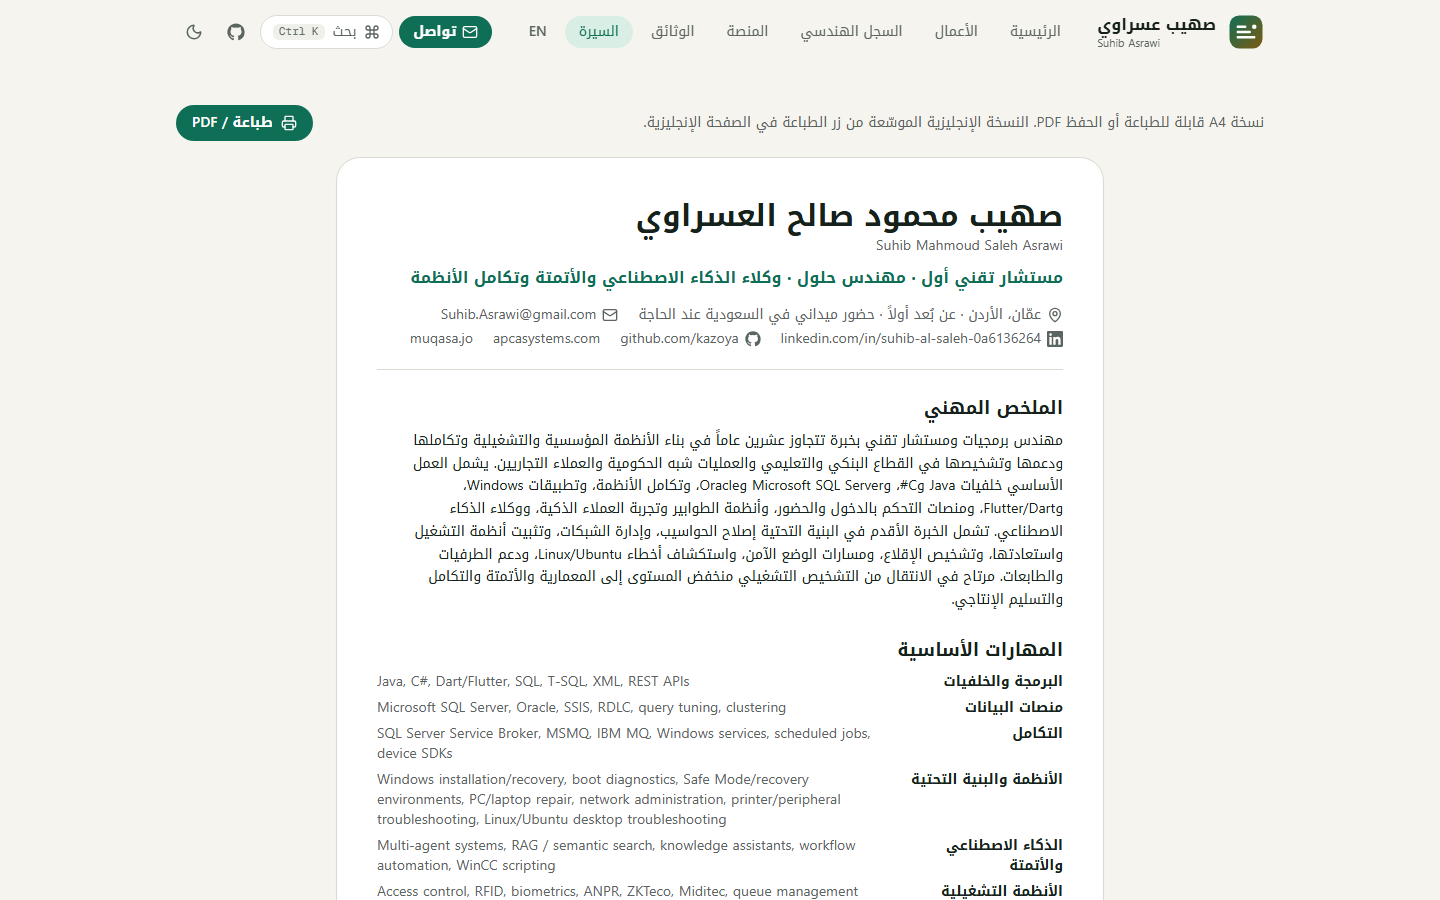
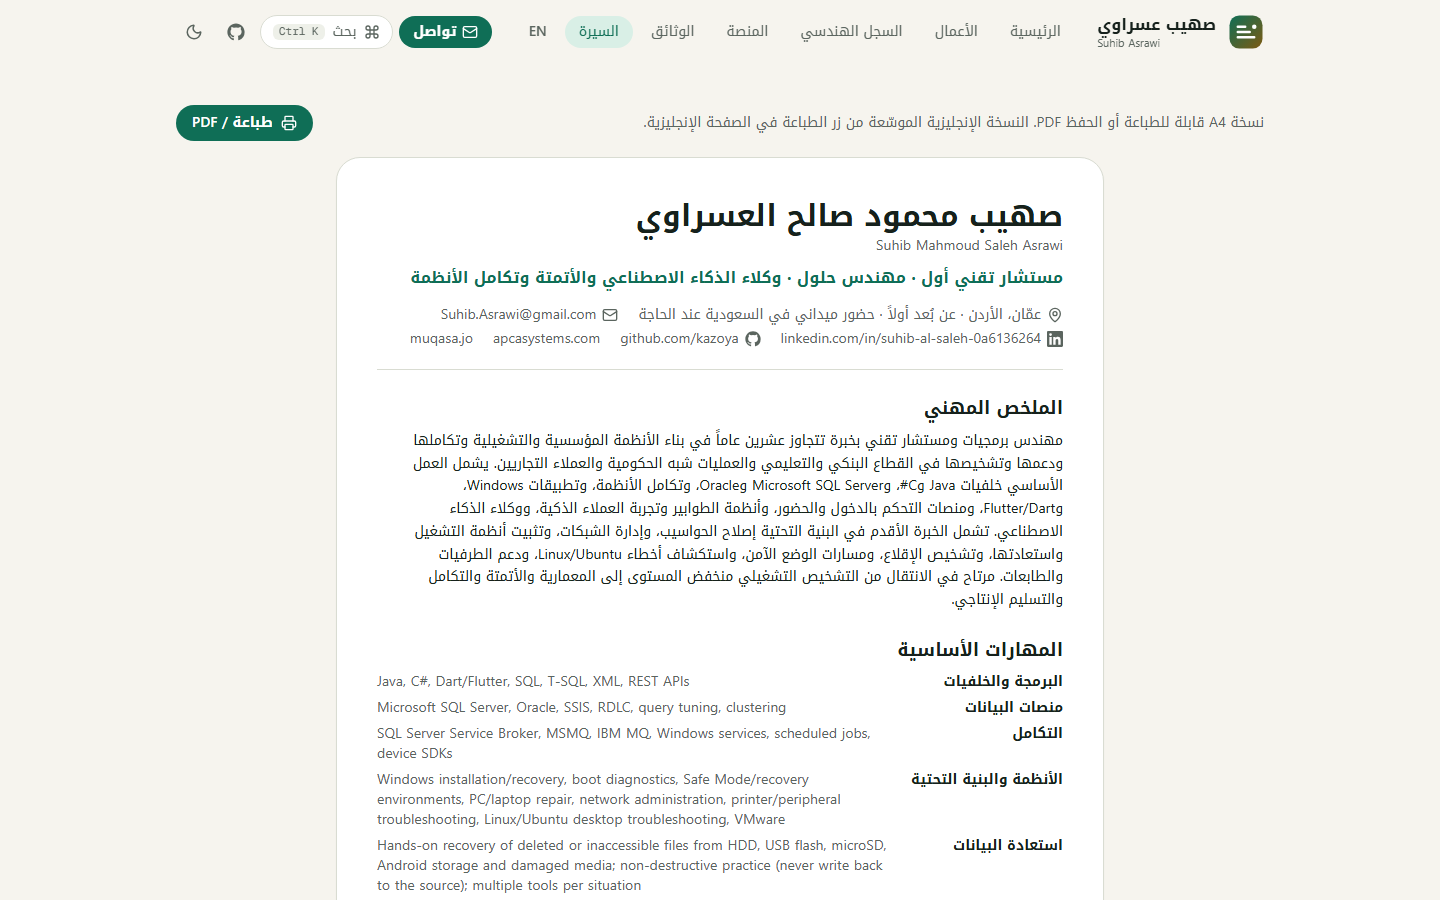
Journal: application-security section with PortSwigger evidence, recovery and security skills, side gallery
- PortSwigger Web Security Academy dashboard (owner screenshot, 2026-09-16):
  273/273 labs, Expert level, BSCP exam-preparation complete; stated as
  exam-ready, not certified
- security practice: assessments with risk reporting (CV), Burp Suite Pro,
  APK reverse-engineering reports, hardening in own projects
- technology generations: Security track; CV skills: data recovery and
  application security; capabilities: security, OS maintenance/recovery, APK RE
- "On the side": three AI-generated illustrations from June 2026, labelled
  as decoration, never evidence

Changed region(s): [[0.25, 0.9022, 0.625, 0.9956], [0.6562, 0.9333, 0.75, 1.0]]

diff --git a/data/journey.ts b/data/journey.ts
@@ -383,6 +383,9 @@ export const tracks: Track[] = [
   { id: "integration", category: "integration", title: { ar: "التكامل", en: "Integration" }, items: [
     { label: "Windows services", era: "enterprise", current: true }, { label: "Service Broker / MSMQ / IBM MQ", era: "enterprise", current: true }, { label: "Device SDKs (Miditec, ZKTeco)", era: "enterprise", current: true }, { label: "RFID / biometrics / ANPR", era: "enterprise", current: true }, { label: "Multi-agent hub", era: "ai", current: true },
   ] },
+  { id: "security", category: "systems", title: { ar: "الأمن", en: "Security" }, items: [
+    { label: "Recovery & Safe Mode", era: "early" }, { label: "Network hardening", era: "infra" }, { label: "App-security assessments", era: "enterprise", current: true }, { label: "Burp Suite Pro · PortSwigger 273/273", era: "ai", current: true }, { label: "APK reverse-engineering reports", era: "ai", current: true },
+  ] },
   { id: "automation", category: "automation", title: { ar: "الأتمتة", en: "Automation" }, items: [
     { label: "Scripts", era: "infra" }, { label: "Scheduled jobs / SQL Agent", era: "enterprise", current: true }, { label: "WinCC scripting", era: "enterprise", current: true }, { label: "Workflow automation", era: "ai", current: true }, { label: "WhatsApp operations flows", era: "ai", current: true },
   ] },
@@ -397,7 +400,7 @@ export const recruiterView: { q: L; a: L }[] = [
   { q: { ar: "من هو صهيب؟", en: "Who is Suhib?" }, a: { ar: "مهندس برمجيات ومستشار تقني من عمّان، أكثر من 20 عاماً في بناء الأنظمة المؤسسية والتشغيلية وتكاملها ودعمها وتشخيصها.", en: "A software engineer and technology consultant from Amman with 20+ years building, integrating, supporting and troubleshooting enterprise and operational systems." } },
   { q: { ar: "ماذا يعمل الآن؟", en: "What does he do now?" }, a: { ar: "مستشار تقني أول ومهندس حلول في APCA Systems (منذ 2018)، ومهندس برمجيات لأنظمة الدخول وقواعد البيانات والتكامل في Signals Control (منذ 2018): وكلاء ذكاء اصطناعي، أتمتة، وتكامل أنظمة.", en: "Senior Technology Consultant & Solutions Architect at APCA Systems (since 2018) and Software Engineer for access control, databases and integration at Signals Control (since 2018): AI agents, automation and systems integration." } },
   { q: { ar: "ما مستوى أقدميته؟", en: "How senior is he?" }, a: { ar: "أول/معماري. يقود التصميم والتسليم، يشخّص الإنتاج، ويوجّه المهندسين والوكلاء؛ يعمل مباشرة مع التنفيذيين.", en: "Senior / architect level. Leads design and delivery, diagnoses production, mentors engineers and directs AI agents; works directly with executives." } },
-  { q: { ar: "على أي أنظمة عمل؟", en: "What systems has he worked on?" }, a: { ar: "أنظمة بنكية (استيراد إجازات على منصة MTZ)، تحكم بالدخول والحضور (Miditec، ZKTeco، RFID، بصمة، ANPR)، إدارة طوابير، مساعدات معرفة عربية، منصات عقارية، ومواقع ومنصات عربية ثنائية اللغة.", en: "Banking (leave import on an MTZ platform), access control and attendance (Miditec, ZKTeco, RFID, fingerprint, ANPR), queue management, Arabic knowledge assistants, a real-estate platform, and bilingual Arabic web platforms." } },
+  { q: { ar: "على أي أنظمة عمل؟", en: "What systems has he worked on?" }, a: { ar: "أنظمة بنكية (استيراد إجازات على منصة MTZ)، تحكم بالدخول والحضور (Miditec، ZKTeco، RFID، بصمة، ANPR)، إدارة طوابير، مساعدات معرفة عربية، منصات عقارية، مواقع ومنصات عربية ثنائية اللغة، وتقييمات أمن تطبيقات (PortSwigger 273/273، Burp Suite Pro).", en: "Banking (leave import on an MTZ platform), access control and attendance (Miditec, ZKTeco, RFID, fingerprint, ANPR), queue management, Arabic knowledge assistants, a real-estate platform, bilingual Arabic web platforms, and application-security assessments (PortSwigger 273/273, Burp Suite Pro)." } },
   { q: { ar: "ماذا يحل لمؤسستي؟", en: "What can he solve for my organisation?" }, a: { ar: "أنظمة لا تتحدث مع بعضها، عمليات متكررة تحتاج أتمتة، نظام إنتاجي يتعطل، مساعد معرفة على وثائقكم، أو معمارية تقنية قبل الإنفاق.", en: "Systems that do not talk to each other, repetitive operations that need automation, a production system that keeps failing, a knowledge assistant over your documents, or technical architecture before you spend." } },
   { q: { ar: "أين يعمل؟", en: "Where can he work?" }, a: { ar: "عمّان، الأردن. عن بُعد أولاً، وحضور ميداني في السعودية والخليج عند الحاجة.", en: "Amman, Jordan. Remote-first, on-site in Saudi Arabia and the GCC when required." } },
   { q: { ar: "كيف أتواصل معه؟", en: "How can I contact him?" }, a: { ar: "البريد أو LinkedIn أدناه، أو GitHub لمراجعة الكود العام.", en: "Email or LinkedIn below, or GitHub to review public code." } },
@@ -511,6 +514,40 @@ export const journalEntries: JournalEntry[] = [
   },
 ];
 
+/* ---------------------------------------------------------- security */
+
+export type SecurityFact = { value: string; label: L };
+
+/** PortSwigger Web Security Academy dashboard, screenshot supplied by the owner on 2026-09-16. */
+export const security = {
+  screenshot: { src: "/screenshots/portswigger.webp", width: 910, height: 611, alt: { ar: "لوحة PortSwigger Web Security Academy: المستوى Expert، 273 من 273 مختبراً محلولة، جاهز لامتحان Burp Suite Certified Practitioner", en: "PortSwigger Web Security Academy dashboard: Expert level, 273 of 273 labs solved, ready for the Burp Suite Certified Practitioner exam" } },
+  facts: [
+    { value: "273 / 273", label: { ar: "مختبراً محلولاً في PortSwigger Web Security Academy", en: "labs solved in the PortSwigger Web Security Academy" } },
+    { value: "Expert", label: { ar: "المستوى: 61 مبتدئ · 173 ممارس · 39 خبير", en: "level: 61 apprentice · 173 practitioner · 39 expert" } },
+    { value: "100%", label: { ar: "مختبرات الثغرات مكتملة", en: "vulnerability labs complete" } },
+    { value: "READY", label: { ar: "خطوات التحضير لامتحان BSCP مكتملة (23/23 · 8/8 · 5/5 · 1/1)", en: "BSCP exam-preparation steps complete (23/23 · 8/8 · 5/5 · 1/1)" } },
+  ] as SecurityFact[],
+  practice: [
+    { ar: "تقييمات أمن التطبيقات مع تقارير مخاطر للتنفيذيين (من السيرة، APCA Systems).", en: "Application-security assessments with risk reporting for executives (CV, APCA Systems)." },
+    { ar: "عمل يدوي بـ Burp Suite Professional على تطبيقات ويب حقيقية ضمن نطاق مصرّح به.", en: "Hands-on Burp Suite Professional work on real web applications within an authorised scope." },
+    { ar: "تقارير هندسة عكسية لتطبيقات Android (APK): فك الحزمة، تتبع الاتصالات، وتوثيق الأسرار المضمّنة.", en: "Reverse-engineering reports for Android apps (APK): unpacking, traffic tracing, and documenting embedded secrets." },
+    { ar: "تقوية تطبيقات الويب في مشاريعي: CSP بهاش، HSTS، تحديد معدل، مدفوعات تفشل مغلقةً، Origin/CSRF.", en: "Hardening in my own projects: hashed CSP, HSTS, rate limiting, fail-closed payments, Origin/CSRF checks." },
+  ],
+  disclaimer: {
+    ar: "جاهز لامتحان Burp Suite Certified Practitioner ولم أتقدّم له بعد؛ لا أدّعي الشهادة. صيد الثغرات مسار جانبي ضمن نطاقات مصرّح بها، لا خدمة اختراق تجارية.",
+    en: "Ready for the Burp Suite Certified Practitioner exam, not yet taken; I do not claim the certification. Bug hunting is a side track within authorised scopes, not a commercial penetration-testing service.",
+  },
+};
+
+/* --------------------------------------------------------------- fun gallery */
+
+/** AI-generated illustrations the owner made in June 2026 — decoration, never evidence. */
+export const funGallery: { src: string; width: number; height: number; caption: L }[] = [
+  { src: "/fun/ai-partner-1.webp", width: 1200, height: 800, caption: { ar: "«أنا أزداد مهارة، أبو شريك، لأساعدك على تذكّر مهامك». أول ما طلبته من المساعد: أن يتذكر بدلاً مني.", en: "\"I am getting better, partner, so I can help you remember your tasks.\" The first thing I asked an assistant for: remember on my behalf." } },
+  { src: "/fun/ai-partner-2.webp", width: 1200, height: 800, caption: { ar: "«بلاش تتنمر، الله يرحم لما كنت تتعلم مني كيف تحل اكس أوه». النسخة الثانية من المزحة نفسها.", en: "\"Don't bully me, remember when you learned tic-tac-toe from me.\" Second cut of the same joke." } },
+  { src: "/fun/ai-partner-3.webp", width: 1200, height: 960, caption: { ar: "«شريك نجاح، مو بس ذكاء اصطناعي». مكتب APCA كما تخيّله النموذج: فكرة منك، تنفيذ سوي، نتيجة.", en: "\"A partner in success, not just AI.\" The APCA office as the model imagined it: your idea, joint execution, a result." } },
+];
+
 /* --------------------------------------------------- CV (from the ATS PDF) */
 
 export type Experience = { role: L; org: L; place: L; period: L; bullets: L[] };
@@ -602,7 +639,9 @@ export const coreSkills: { group: L; items: string }[] = [
   { group: { ar: "البرمجة والخلفيات", en: "Programming & backend" }, items: "Java, C#, Dart/Flutter, SQL, T-SQL, XML, REST APIs" },
   { group: { ar: "منصات البيانات", en: "Data platforms" }, items: "Microsoft SQL Server, Oracle, SSIS, RDLC, query tuning, clustering" },
   { group: { ar: "التكامل", en: "Integration" }, items: "SQL Server Service Broker, MSMQ, IBM MQ, Windows services, scheduled jobs, device SDKs" },
-  { group: { ar: "الأنظمة والبنية التحتية", en: "Systems & infrastructure" }, items: "Windows installation/recovery, boot diagnostics, Safe Mode/recovery environments, PC/laptop repair, network administration, printer/peripheral troubleshooting, Linux/Ubuntu desktop troubleshooting" },
+  { group: { ar: "الأنظمة والبنية التحتية", en: "Systems & infrastructure" }, items: "Windows installation/recovery, boot diagnostics, Safe Mode/recovery environments, PC/laptop repair, network administration, printer/peripheral troubleshooting, Linux/Ubuntu desktop troubleshooting, VMware" },
+  { group: { ar: "استعادة البيانات", en: "Data recovery" }, items: "Hands-on recovery of deleted or inaccessible files from HDD, USB flash, microSD, Android storage and damaged media; non-destructive practice (never write back to the source); multiple tools per situation" },
+  { group: { ar: "أمن التطبيقات", en: "Application security" }, items: "Application-security assessments with risk reporting, Burp Suite Professional, PortSwigger Web Security Academy 273/273 labs (BSCP exam-ready), APK reverse-engineering reports, CSP/HSTS/rate limiting/CSRF hardening" },
   { group: { ar: "الذكاء الاصطناعي والأتمتة", en: "AI & automation" }, items: "Multi-agent systems, RAG / semantic search, knowledge assistants, workflow automation, WinCC scripting" },
   { group: { ar: "الأنظمة التشغيلية", en: "Operational systems" }, items: "Access control, RFID, biometrics, ANPR, ZKTeco, Miditec, queue management (QMS), HR leave and attendance interfaces" },
   { group: { ar: "التسليم", en: "Delivery" }, items: "Production diagnostics, hotfix engineering, rollback-safe releases, technical mentorship, digital transformation" },

diff --git a/components/journey/journal-page.tsx b/components/journey/journal-page.tsx
@@ -5,7 +5,8 @@ import { MethodStrip } from "@/components/journey/method-strip";
 import { TechnologyGenerations } from "@/components/journey/technology-generations";
 import { ClientMode, RecruiterView } from "@/components/journey/recruiter-view";
 import { JournalEntries } from "@/components/journey/journal-entries";
-import { eras } from "@/data/journey";
+import Image from "next/image";
+import { eras, funGallery, security } from "@/data/journey";
 import { t, type Locale } from "@/lib/i18n";
 
 const copy = {
@@ -33,6 +34,14 @@ const copy = {
     entriesEyebrow: "مدخلات هندسية",
     entriesTitle: "خمسة قرارات هندسية موثّقة بالكامل",
     entriesLead: "لكل مدخل: التحدي، السياق والقيود، القرار، التنفيذ، التحقق، النتيجة، الدرس، وكيف يظهر المبدأ في عملي اليوم.",
+    secEyebrow: "الأمن التطبيقي",
+    secTitle: "الأمن بالأدلة لا بالألقاب",
+    secLead: "الطبقة نفسها من التشخيص، لكن من جهة المهاجم: كل مختبر في PortSwigger محلول، وتقارير هندسة عكسية، وتقييمات أمن تطبيقات للتنفيذيين.",
+    secPractice: "ما أفعله فعلاً",
+    secShot: "لوحة PortSwigger — لقطة حقيقية 2026-09-16",
+    funEyebrow: "على الهامش",
+    funTitle: "حين دخل الذكاء الاصطناعي عالمنا",
+    funLead: "ثلاث صور مولّدة بالذكاء الاصطناعي صنعتها في حزيران 2026 للمرح. زينة لا دليل، وشريك عمل لا بديل.",
     truthTitle: "ملاحظة صدق",
     truth: [
       "خبرات DOS والوسائط واستعادة البيانات خبرات عملية تأسيسية؛ لا أدّعي تخصصاً حالياً في DOS، ولا شهادة تحقيق جنائي رقمي، ولا استعادة غير مقيدة لأجهزة iPhone.",
@@ -64,6 +73,14 @@ const copy = {
     entriesEyebrow: "Engineering entries",
     entriesTitle: "Five fully documented engineering decisions",
     entriesLead: "Each entry: challenge, context and constraints, decision, implementation, verification, result, lesson, and how the principle appears in my work today.",
+    secEyebrow: "Application security",
+    secTitle: "Security by evidence, not by titles",
+    secLead: "The same diagnostic layer, seen from the attacker's side: every PortSwigger lab solved, reverse-engineering reports, and application-security assessments for executives.",
+    secPractice: "What I actually do",
+    secShot: "PortSwigger dashboard — real capture, 2026-09-16",
+    funEyebrow: "On the side",
+    funTitle: "When AI walked into our world",
+    funLead: "Three AI-generated illustrations I made in June 2026, for fun. Decoration, not evidence; a work partner, not a replacement.",
     truthTitle: "Truthfulness note",
     truth: [
       "DOS, multimedia and data-recovery experiences are hands-on foundations; I claim no current DOS specialisation, no digital-forensics certification, and no unrestricted iPhone recovery.",
@@ -140,6 +157,47 @@ export function JournalPageContent({ locale = "ar" }: { locale?: Locale }) {
       <section id="entries" className="mt-16 scroll-mt-24" aria-labelledby="entries-t">
         <SectionHeading id="entries-t" eyebrow={c.entriesEyebrow} title={c.entriesTitle} lead={c.entriesLead} />
         <JournalEntries locale={locale} />
+      </section>
+
+      {/* security */}
+      <section id="security" className="mt-16 scroll-mt-24" aria-labelledby="security-t">
+        <SectionHeading id="security-t" eyebrow={c.secEyebrow} title={c.secTitle} lead={c.secLead} />
+        <div className="grid gap-5 lg:grid-cols-[1.1fr_1fr]">
+          <figure className="card reveal overflow-hidden">
+            <Image src={security.screenshot.src} alt={t(security.screenshot.alt, locale)} width={security.screenshot.width} height={security.screenshot.height} sizes="(min-width: 1024px) 55vw, 100vw" className="h-auto w-full" />
+            <figcaption className="px-4 py-2 text-xs text-muted">{c.secShot}</figcaption>
+          </figure>
+          <div className="grid content-start gap-4">
+            <ul className="grid gap-2 sm:grid-cols-2">
+              {security.facts.map((f) => (
+                <li key={f.value} className="card reveal p-4">
+                  <div className="ltr text-end text-2xl font-bold text-primary">{f.value}</div>
+                  <div className="text-xs text-muted">{t(f.label, locale)}</div>
+                </li>
+              ))}
+            </ul>
+            <div className="card reveal p-4">
+              <div className="text-xs font-bold text-muted">{c.secPractice}</div>
+              <ul className="mt-2 grid gap-1.5 text-sm">
+                {security.practice.map((p) => <li key={p.en} className="flex gap-2"><span className="mt-2.5 size-1.5 shrink-0 rounded-full bg-primary" />{t(p, locale)}</li>)}
+              </ul>
+            </div>
+            <p className="rounded-xl border border-gold/40 bg-gold-soft p-3 text-xs">{t(security.disclaimer, locale)}</p>
+          </div>
+        </div>
+      </section>
+
+      {/* fun */}
+      <section id="fun" className="mt-16 scroll-mt-24" aria-labelledby="fun-t">
+        <SectionHeading id="fun-t" eyebrow={c.funEyebrow} title={c.funTitle} lead={c.funLead} />
+        <ul className="grid gap-4 md:grid-cols-3">
+          {funGallery.map((g) => (
+            <li key={g.src} className="card reveal overflow-hidden">
+              <Image src={g.src} alt={t(g.caption, locale)} width={g.width} height={g.height} sizes="(min-width: 768px) 33vw, 100vw" className="h-auto w-full" />
+              <p className="px-4 py-3 text-xs text-muted">{t(g.caption, locale)}</p>
+            </li>
+          ))}
+        </ul>
       </section>
 
       {/* truth */}

diff --git a/data/portfolio.ts b/data/portfolio.ts
@@ -493,6 +493,9 @@ export const capabilities: { name: string; evidence: string; level: Confidence }
   { name: "هندسة أوامر للوكلاء (RCTC)", evidence: "kazoya/rctc-skill مثبّتة على /master", level: "عالي" },
   { name: "تكامل APIs خارجية", evidence: "eBay Browse Sandbox: SANDBOX_VERIFIED", level: "عالي" },
   { name: "تقارير آلية بخمس صيغ", evidence: "حزمة التقارير نفسها مُولَّدة من المنصة", level: "عالي" },
+  { name: "أمن تطبيقات الويب عملياً (Burp Suite Pro)", evidence: "PortSwigger Academy 273/273 مختبراً · مستوى Expert · جاهز لامتحان BSCP", level: "عالي" },
+  { name: "صيانة أنظمة التشغيل واستعادة الملفات المحذوفة", evidence: "HDD / USB / microSD / أندرويد بممارسة غير تدميرية (السيرة + السجل الهندسي)", level: "عالي" },
+  { name: "هندسة عكسية لتطبيقات Android (APK)", evidence: "تقارير فك حزمة وتتبع اتصالات وتوثيق أسرار مضمّنة", level: "متوسط" },
   { name: "Supabase + RLS", evidence: "براءة الشوبكي (غير مُزوَّدة تلقائياً)", level: "متوسط" },
   { name: "RAG محلي (FTS5 + FAISS + Ollama)", evidence: "APCA SmartHelp", level: "متوسط" },
   { name: "منتج SaaS باشتراك (PayPal)", evidence: "وثيقة: IPN الحي غير موثَّق", level: "متوسط" },
